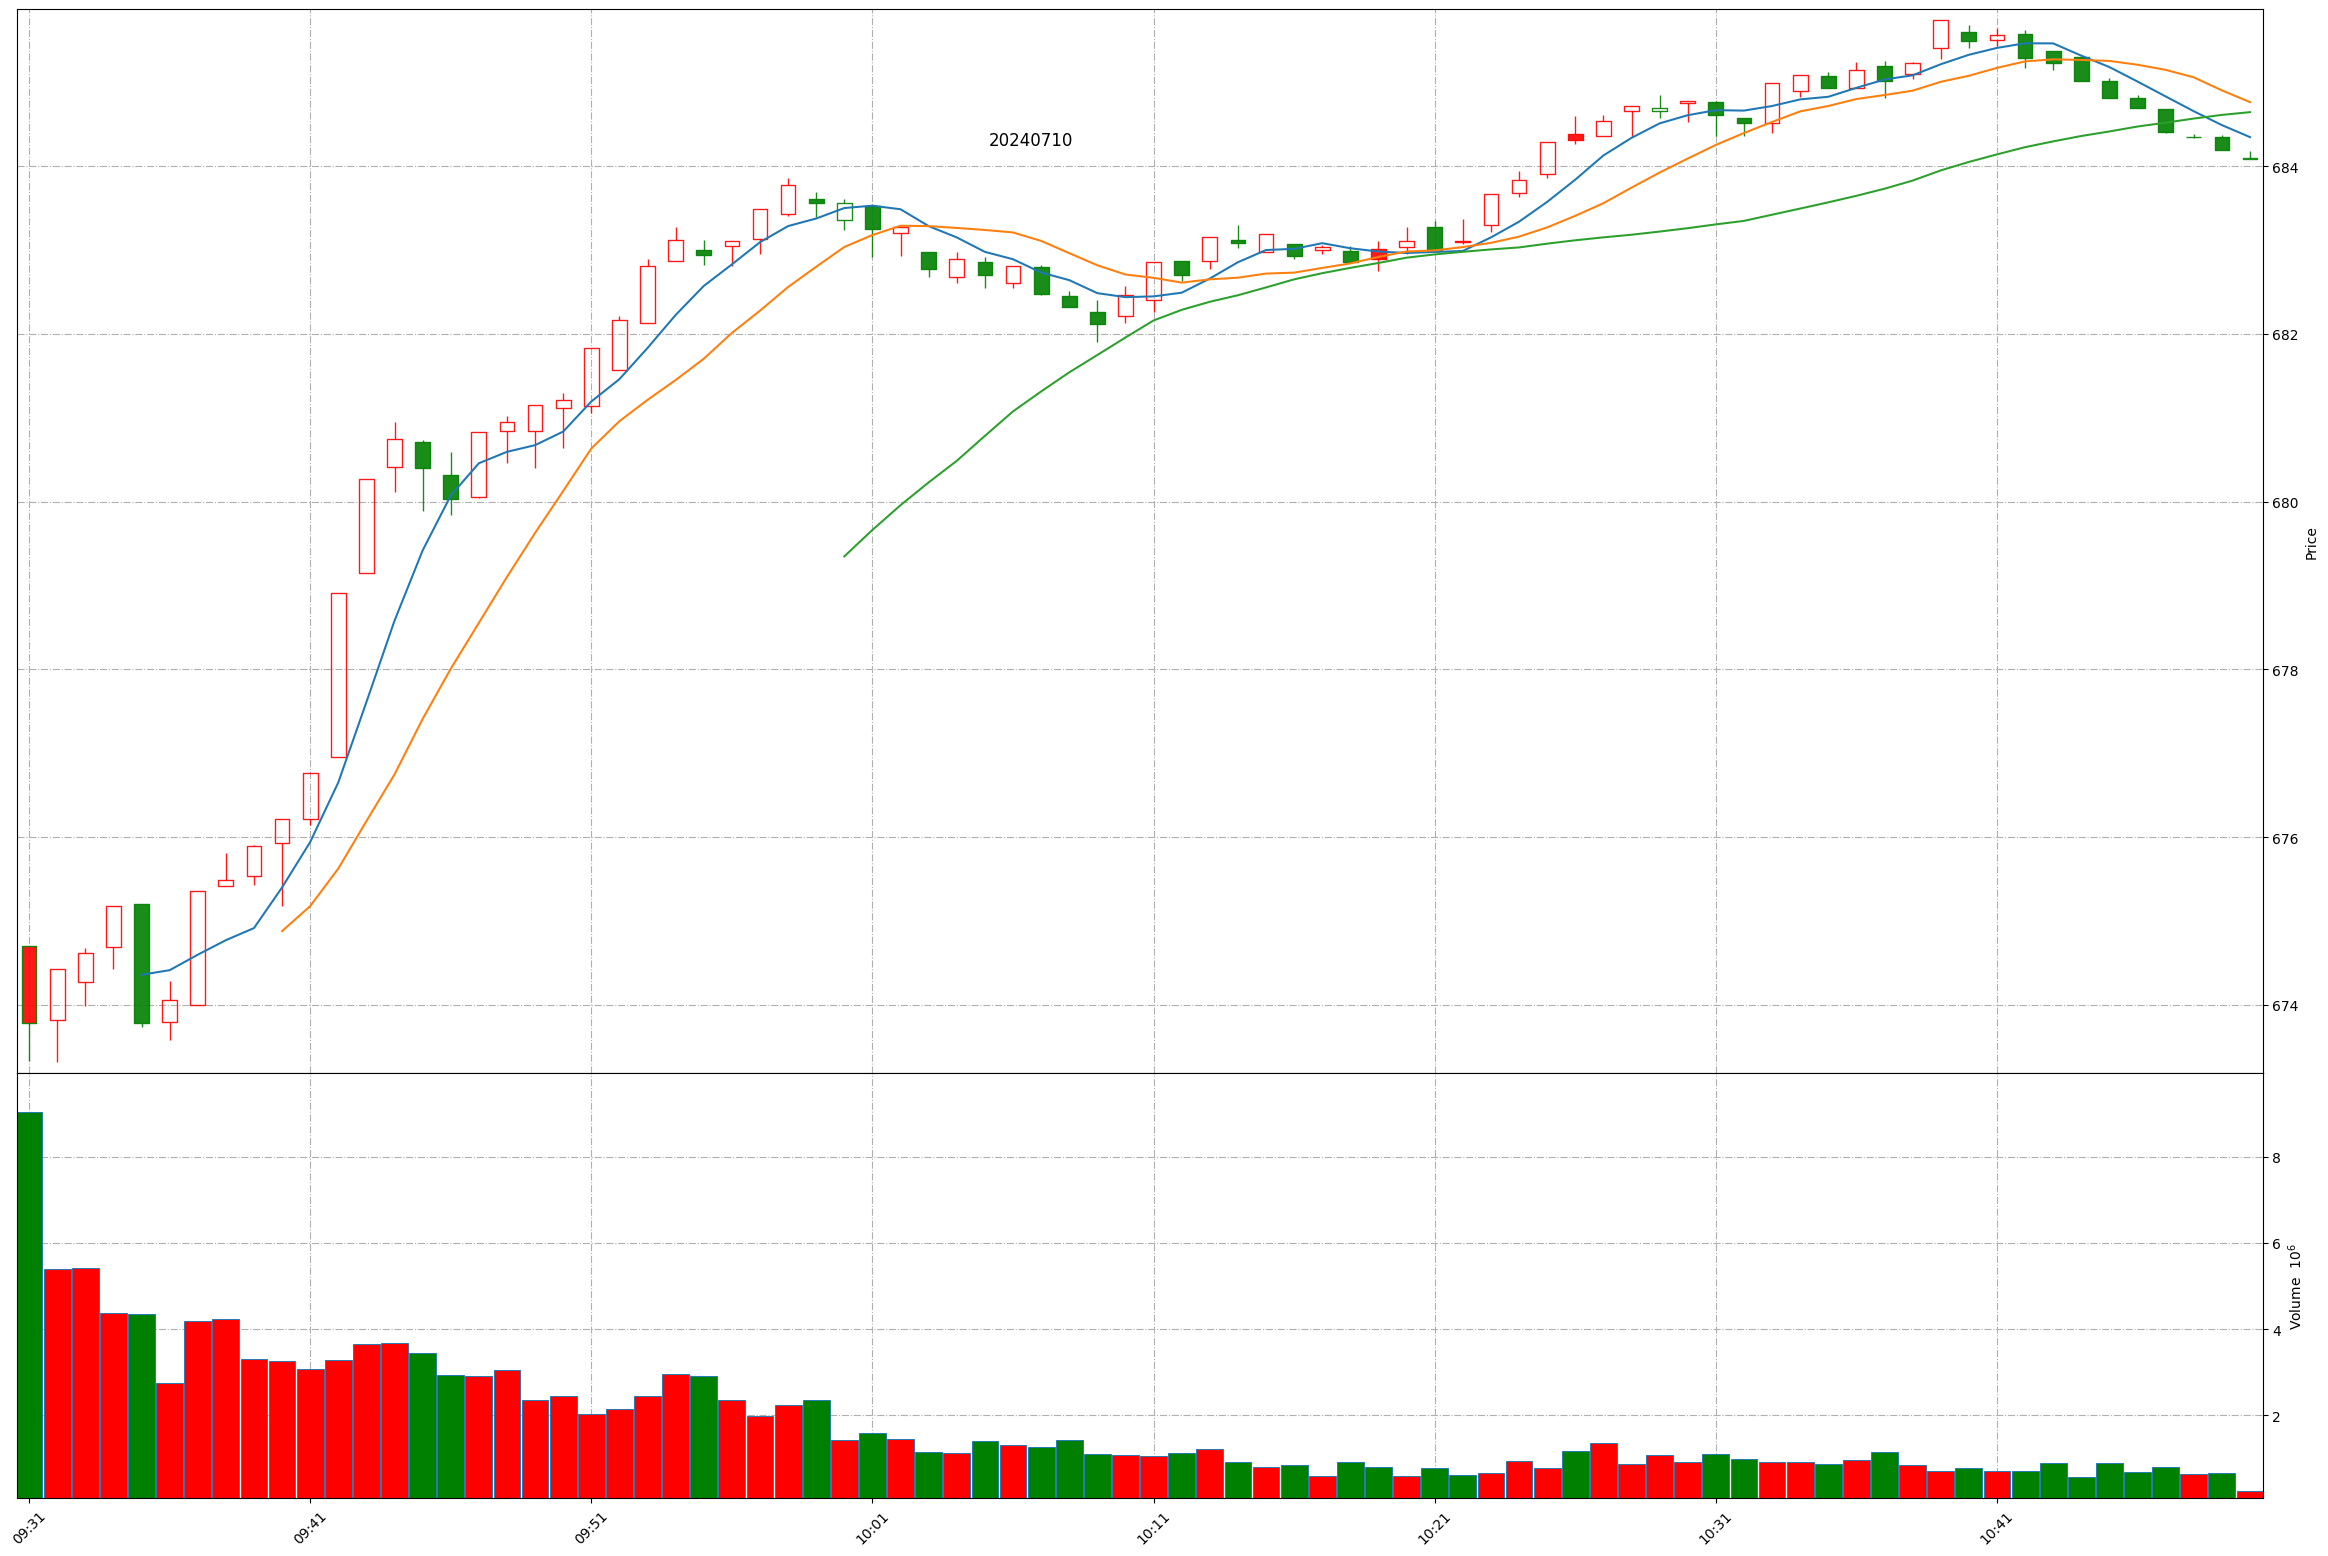
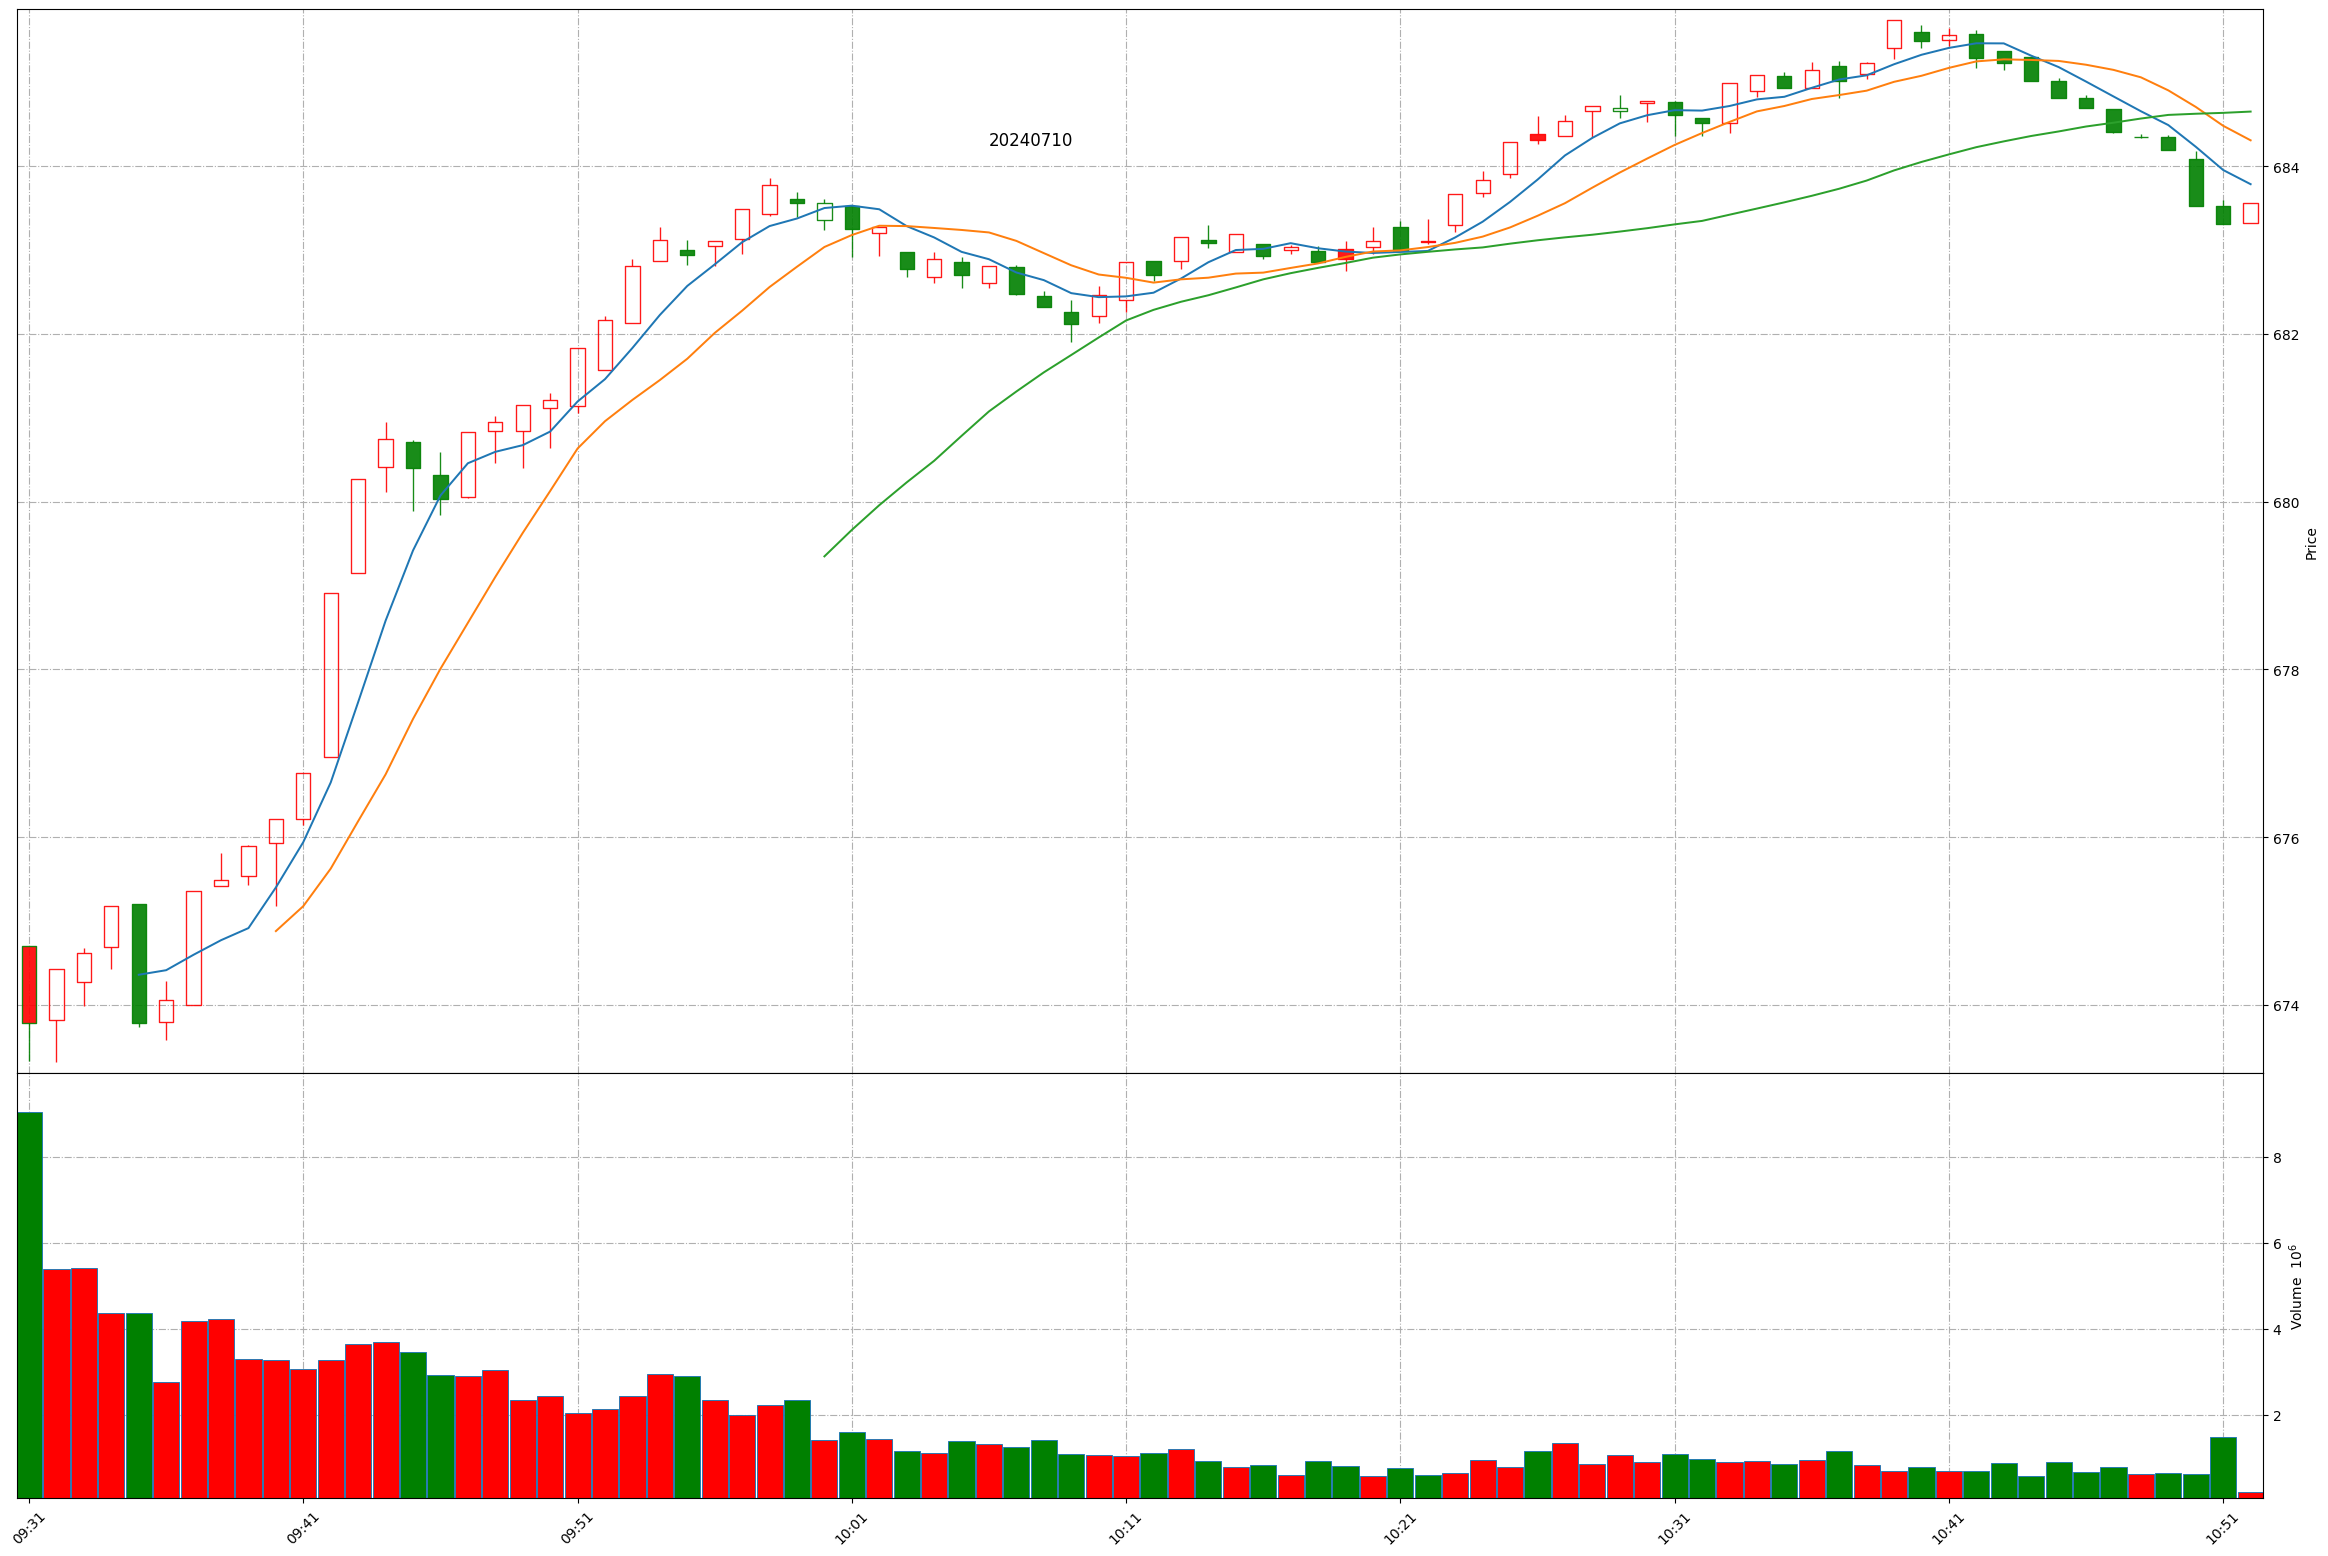
Github action update at 2024-07-10 10:51:25.

diff --git a/README.md b/README.md
@@ -1,11 +1,11 @@
 
 # Daily-A-share-market-quotes 每日 A 股指数（5min 更新）- 20240710
 
-### 上证指数 20240710 10:49
+### 上证指数 20240710 10:51
 ![](./fig/2024/7/20240710-sh000001.png)
 
-### 深证成指 20240710 10:49
+### 深证成指 20240710 10:51
 ![](./fig/2024/7/20240710-sz399001.png)
 
-### 北证50 20240710 10:49
+### 北证50 20240710 10:51
 ![](./fig/2024/7/20240710-bj899050.png)
